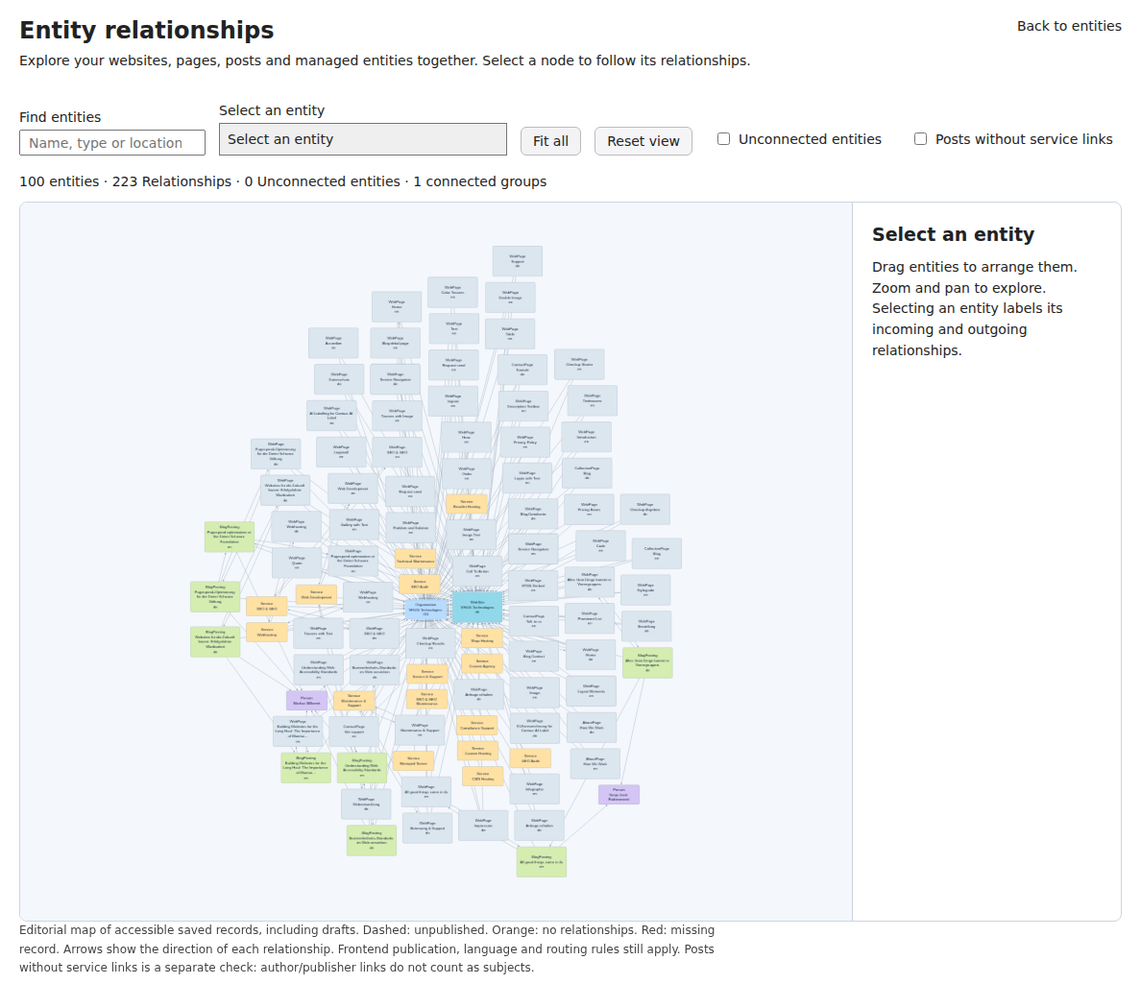
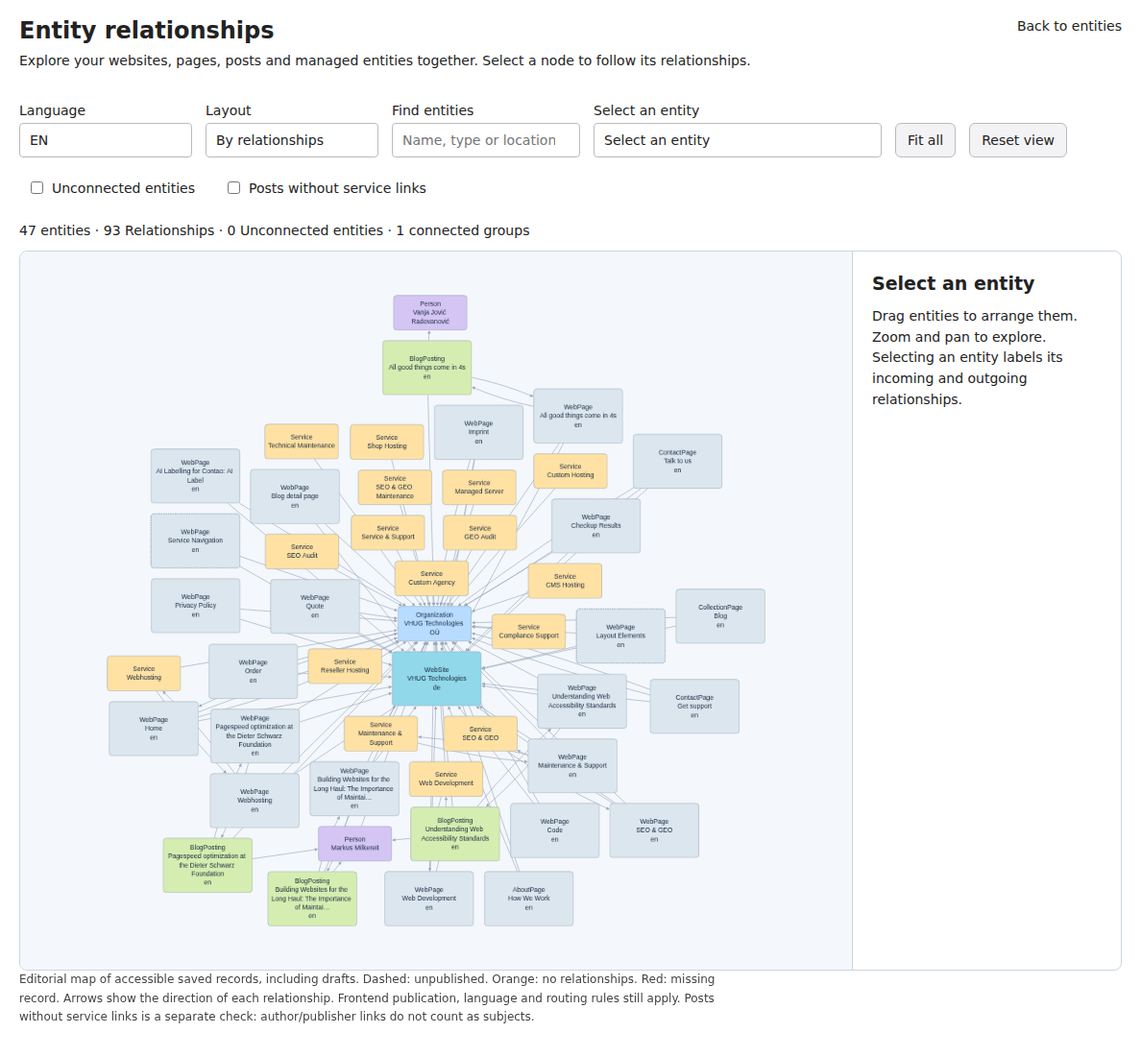
Declutter graph by indexing, language and type grouping

diff --git a/public/relationship-map.js b/public/relationship-map.js
@@ -9,8 +9,32 @@
     const events=new AbortController();
     const listen=(element,type,callback)=>element?.addEventListener(type,callback,{signal:events.signal});
     const colors = {Organization:'#b7dcff',LocalBusiness:'#a9e1d2',Person:'#d4c5f4',Service:'#ffe1a3',Product:'#ffcbb5',Event:'#ffc8e1',Missing:'#ffaaaa',WebSite:'#91d8ea',WebPage:'#dbe6ef',AboutPage:'#dbe6ef',ContactPage:'#dbe6ef',CollectionPage:'#dbe6ef',ProfilePage:'#dbe6ef',ItemPage:'#dbe6ef',BlogPosting:'#d5edb0',Article:'#d5edb0',NewsArticle:'#d5edb0',JobPosting:'#f2d0aa'};
-    elements.nodes.forEach(n => { n.data.label = `${n.data.type}\n${n.data.name.length>65?n.data.name.slice(0,62)+'…':n.data.name}${n.data.detail ? '\n'+n.data.detail : ''}`; n.data.color=colors[n.data.type] || '#cbd5e1'; });
-    const cy = window.cytoscape({container:q('[data-sg-canvas]'),elements, minZoom:.12,maxZoom:2.5,wheelSensitivity:.25,
+    const languageControl=q('[data-sg-language]');
+    const languages=[...new Set(elements.nodes.flatMap(n=>[n.data.language,...(n.data.languages||[])]).filter(Boolean))].sort();
+    let currentLanguage='*';
+    if(languageControl){
+      languageControl.options.length=1;
+      languages.forEach(code=>{const option=document.createElement('option');option.value=code;option.textContent=code.toUpperCase();languageControl.append(option);});
+      let saved;try{saved=sessionStorage.getItem('schema-manager-graph-language');}catch{}
+      const backendLanguage=document.documentElement.lang;
+      currentLanguage=saved==='*'||languages.includes(saved)?saved:languages.find(code=>code===backendLanguage||code.split('-')[0]===backendLanguage.split('-')[0])||languages[0]||'*';
+      languageControl.value=currentLanguage;
+    }
+    function visibleElements(){
+      let nodes=elements.nodes.filter(n=>currentLanguage==='*'||(!n.data.language&&(!(n.data.languages||[]).length||n.data.languages.includes(currentLanguage)))||n.data.language===currentLanguage).map(n=>{
+        const data={...n.data};
+        data.homes=(data.homes||[]).filter(h=>currentLanguage==='*'||h.language===currentLanguage);
+        if(currentLanguage!=='*'&&['Service','Product','Event'].includes(data.type))data.name=data.homes.find(h=>h.published&&h.name)?.name||data.name;
+        data.label=`${data.type}\n${data.name.length>65?data.name.slice(0,62)+'…':data.name}${data.detail?'\n'+data.detail:''}`;data.color=colors[data.type]||'#cbd5e1';
+        return {data};
+      });
+      const ids=new Set(nodes.map(n=>n.data.id));
+      const edges=elements.edges.filter(e=>ids.has(e.data.source)&&ids.has(e.data.target));
+      const linked=new Set(edges.flatMap(e=>[e.data.source,e.data.target]));
+      nodes=nodes.filter(n=>(n.data.kind!=='coreAuthor'&&!n.data.missing)||linked.has(n.data.id));
+      return {nodes,edges};
+    }
+    const cy = window.cytoscape({container:q('[data-sg-canvas]'),elements:visibleElements(), minZoom:.12,maxZoom:2.5,wheelSensitivity:.25,
       style:[{selector:'node',style:{label:'data(label)','background-color':'data(color)',shape:'round-rectangle',width:190,height:90,'text-wrap':'wrap','text-max-width':174,'font-size':17,'line-height':1.35,color:'#14253b','text-valign':'center','border-width':1,'border-color':'#8597aa'}},
         {selector:'node[type = "LocalBusiness"]',style:{height:140}},
         {selector:'node[kind = "news"], node[kind = "page"]',style:{width:230,height:140,'text-max-width':212}},
@@ -21,7 +45,24 @@
         {selector:'.dim',style:{opacity:.13}},
         {selector:'.focused',style:{'border-width':3,'border-color':'#155f9b'}},
         {selector:'edge.focused',style:{label:'data(label)','font-size':10,'text-background-color':'#fff','text-background-opacity':.95,'text-background-padding':3,'line-color':'#155f9b','target-arrow-color':'#155f9b',width:2.5}}],
-      layout:{name:'fcose',quality:'proof',animate:false,nodeDimensionsIncludeLabels:true,packComponents:false,nodeRepulsion:()=>100000,idealEdgeLength:()=>150,tilingPaddingVertical:40,tilingPaddingHorizontal:40,padding:35}});
+      layout:{name:'preset'}});
+    root.sgInstance=cy;
+    const select=q('[data-sg-select]');
+    function arrange(){
+      cy.elements().removeClass('focused dim');
+      if(q('[data-sg-layout]')?.value==='type'){
+        const order=['WebSite','Organization','LocalBusiness','Person','Service','Product','Event','BlogPosting','Article','NewsArticle','JobPosting','WebPage','AboutPage','ContactPage','CollectionPage','ProfilePage','ItemPage','Missing'];
+        const groups=[...new Set(cy.nodes().map(n=>n.data('type')))].sort((a,b)=>order.indexOf(a)-order.indexOf(b));
+        let x=0,y=0,rowHeight=0;
+        groups.forEach((type,index)=>{
+          const group=cy.nodes().filter(n=>n.data('type')===type).sort((a,b)=>a.data('name').localeCompare(b.data('name')));
+          group.layout({name:'grid',fit:false,condense:true,avoidOverlap:true,avoidOverlapPadding:32,nodeDimensionsIncludeLabels:true,cols:Math.ceil(Math.sqrt(group.length)),boundingBox:{x1:0,y1:0,w:1,h:1}}).run();
+          const bounds=group.boundingBox();
+          group.shift({x:x-bounds.x1,y:y-bounds.y1});rowHeight=Math.max(rowHeight,bounds.h);
+          if(index%2===0)x+=bounds.w+160;else{x=0;y+=rowHeight+160;rowHeight=0;}
+        });
+      }else{
+        cy.layout({name:'fcose',quality:'proof',animate:false,nodeDimensionsIncludeLabels:true,packComponents:false,nodeRepulsion:()=>100000,idealEdgeLength:()=>150,tilingPaddingVertical:40,tilingPaddingHorizontal:40,padding:35}).run();
     // Dense publisher/site hubs can pull rectangular cards into each other.
     // Resolve overlaps after the force layout while preserving its neighborhoods.
     const boxes=cy.nodes().map(n=>{const b=n.boundingBox({includeLabels:true});return {node:n,x:n.position('x'),y:n.position('y'),w:b.w,h:b.h};});
@@ -38,13 +79,19 @@
       if(!moved)break;
     }
     cy.batch(()=>boxes.forEach(b=>b.node.position({x:b.x,y:b.y})));
-    cy.fit(undefined,35);
-    root.sgInstance=cy;
-    const real=cy.nodes().filter(n=>!n.data('missing')), isolated=real.filter(n=>n.degree()===0);
-    isolated.addClass('isolated');
-    q('[data-sg-summary]').textContent=`${real.length} ${l.entities} · ${cy.edges().length} ${l.relations} · ${isolated.length} ${l.isolated} · ${cy.elements().components().length} ${l.groups}`;
-    const select=q('[data-sg-select]');select.options.length=1;
-    cy.nodes().forEach(n=> {const opt=document.createElement('option');opt.value=n.id();opt.textContent=`${n.data('type')} · ${n.data('name')}${n.data('detail')?' · '+n.data('detail'):''}`;select.append(opt);});
+        // Use the library's strict no-overlap grid if relaxation still leaves collisions.
+        const overlapping=boxes.some((a,i)=>boxes.slice(i+1).some(b=>Math.abs(a.x-b.x)<(a.w+b.w)/2+2&&Math.abs(a.y-b.y)<(a.h+b.h)/2+2));
+        if(overlapping)cy.layout({name:'grid',avoidOverlap:true,avoidOverlapPadding:32,nodeDimensionsIncludeLabels:true,condense:true,fit:false}).run();
+      }
+      cy.fit(undefined,35);
+    }
+    function updateOverview(){
+      const real=cy.nodes().filter(n=>!n.data('missing')), isolated=real.filter(n=>n.degree()===0);
+      cy.nodes().removeClass('isolated');isolated.addClass('isolated');
+      q('[data-sg-summary]').textContent=`${real.length} ${l.entities} · ${cy.edges().length} ${l.relations} · ${isolated.length} ${l.isolated} · ${cy.elements().components().length} ${l.groups}`;
+      select.options.length=1;
+      cy.nodes().forEach(n=>{const opt=document.createElement('option');opt.value=n.id();opt.textContent=`${n.data('type')} · ${n.data('name')}${n.data('detail')?' · '+n.data('detail'):''}`;select.append(opt);});
+    }
     const add=(parent,tag,text,cls)=>{const el=document.createElement(tag);el.textContent=text;if(cls)el.className=cls;parent.append(el);return el;};
     const details=q('[data-sg-details]');
     function focus(n){
@@ -73,6 +120,14 @@
     listen(q('[data-sg-search]'),'input',filter);listen(q('[data-sg-isolated]'),'change',filter);listen(q('[data-sg-topics]'),'change',filter);
     listen(q('[data-sg-fit]'),'click',()=>cy.fit(undefined,45));
     listen(q('[data-sg-reset]'),'click',()=>{q('[data-sg-search]').value='';q('[data-sg-isolated]').checked=false;if(q('[data-sg-topics]'))q('[data-sg-topics]').checked=false;select.value='';filter();details.replaceChildren();add(details,'h3',l.select);add(details,'p',l.help);});
+    function resetDetails(){details.replaceChildren();add(details,'h3',l.select);add(details,'p',l.help);}
+    listen(languageControl,'change',()=>{
+      currentLanguage=languageControl.value;
+      try{sessionStorage.setItem('schema-manager-graph-language',currentLanguage);}catch{}
+      cy.elements().remove();cy.add(visibleElements());updateOverview();arrange();resetDetails();filter();
+    });
+    listen(q('[data-sg-layout]'),'change',()=>{select.value='';arrange();resetDetails();filter();});
+    updateOverview();arrange();
     const observer=new ResizeObserver(()=>{if(!cy.destroyed())cy.resize();});observer.observe(q('[data-sg-canvas]'));root.sgCleanup=()=>{events.abort();observer.disconnect();cy.stop();cy.destroy();root.sgInstance=null;};
   });
   document.addEventListener('turbo:load',boot);

diff --git a/public/relationship-map.css b/public/relationship-map.css
@@ -1,3 +1,5 @@
 .sg-map{padding:20px;background:var(--content-bg,#fff);color:var(--text,#222)}.sg-heading{display:flex;justify-content:space-between;gap:20px}.sg-heading h2{font-size:24px;margin:0 0 8px}.sg-heading p,.sg-note{max-width:95ch;line-height:1.6}.sg-toolbar{display:flex;gap:14px;flex-wrap:wrap;align-items:end;margin:20px 0}.sg-toolbar label{display:grid;gap:6px}.sg-toolbar input[type=search],.sg-toolbar select{min-width:180px;max-width:300px;padding:8px}.sg-toolbar .sg-check{display:flex;align-items:center;padding:8px}.sg-workspace{display:grid;grid-template-columns:minmax(0,1fr) 280px;border:1px solid #cbd5e1;border-radius:8px;overflow:hidden}.sg-canvas{height:68vh;min-height:480px;background:#f4f7fb}.sg-details{padding:20px;border-left:1px solid #cbd5e1;overflow-wrap:anywhere;max-height:68vh;overflow:auto}.sg-details h3{font-size:19px;line-height:1.4}.sg-details ul{padding-left:18px;line-height:1.7}.sg-details button{border:0;background:transparent;color:#126aaf;text-align:left;text-decoration:underline;cursor:pointer;padding:3px;font:inherit}.sg-status{font-weight:bold}.sg-note{font-size:12px;opacity:.85}.sg-edit{display:inline-block;margin:12px 0}.sg-details code{font-size:11px}.sg-map button:focus-visible,.sg-map a:focus-visible,.sg-map select:focus-visible{outline:3px solid #2682b9;outline-offset:3px}@media(max-width:900px){.sg-workspace{grid-template-columns:1fr}.sg-details{border-left:0;border-top:1px solid #cbd5e1;max-height:350px}.sg-canvas{min-height:400px;height:55vh}}
 .sg-details p{line-height:1.55;margin:10px 0}.sg-details h4{margin-top:20px}
 .sg-canvas{min-width:0}.sg-workspace{min-width:0}@media(max-width:900px){.sg-workspace{grid-template-columns:minmax(0,1fr)}}
+
+.sg-toolbar input[type=search],.sg-toolbar select{box-sizing:border-box;height:36px;min-height:36px;line-height:20px;padding:7px 10px;border:1px solid var(--form-border,#bbb);border-radius:4px;background:var(--form-bg,#fff);color:inherit;font:inherit;margin:0}.sg-toolbar label{align-content:start}.sg-toolbar .tl_submit{min-height:36px}

diff --git a/tests/browser-relationship-map.py b/tests/browser-relationship-map.py
@@ -7,7 +7,7 @@ nodes=[{'data':dict(id='entity-'+str(i),record=i,name=name,type=kind,detail=deta
  (1,'Example company','Organization','',True,False),(2,'Example company','LocalBusiness','Main Street 3, 70173 Stuttgart',True,False),
  (3,'Unconnected draft','Person','',False,False),(4,'#4','Missing','',False,True),(5,'</script><script>window.attacked=true</script>','Service','',True,False)]]
 edges=[{'data':dict(id='edge-'+str(i),source=source,target=target,label=label)} for i,source,target,label in [(1,'entity-2','entity-1','parentOrganization'),(2,'entity-1','entity-2','location'),(3,'entity-1','entity-4','memberOf')]]
-html='''<div data-schema-graph><input data-sg-search><select data-sg-select><option value="">Select</option></select><input type="checkbox" data-sg-isolated><input type="checkbox" data-sg-topics><button data-sg-fit>Fit</button><button data-sg-reset>Reset</button><p data-sg-summary></p><div class="sg-workspace"><div data-sg-canvas class="sg-canvas"></div><aside data-sg-details class="sg-details"></aside></div><script type="application/json" data-sg-data></script></div>'''
+html='''<div data-schema-graph><div class="sg-toolbar"><select data-sg-language><option value="*">All</option></select><select data-sg-layout><option value="relationships">Relationships</option><option value="type">Type</option></select><input type="search" data-sg-search><select data-sg-select><option value="">Select</option></select><input type="checkbox" data-sg-isolated><input type="checkbox" data-sg-topics><button data-sg-fit>Fit</button><button data-sg-reset>Reset</button></div><p data-sg-summary></p><div class="sg-workspace"><div data-sg-canvas class="sg-canvas"></div><aside data-sg-details class="sg-details"></aside></div><script type="application/json" data-sg-data></script></div>'''
 with sync_playwright() as p:
  browser=p.chromium.launch()
  page=browser.new_page(viewport={'width':1440,'height':1000})
@@ -46,6 +46,7 @@ with sync_playwright() as p:
  page.evaluate("document.dispatchEvent(new Event('turbo:before-cache'))")
  page.locator('[data-sg-data]').evaluate('(el,payload)=>el.textContent=JSON.stringify(payload)',{'elements':content,'labels':labels})
  page.evaluate("document.dispatchEvent(new Event('turbo:load'))")
+ page.locator('[data-sg-language]').select_option('*')
  page.locator('[data-sg-select]').select_option('news-31')
  assert 'do=news' in page.locator('[data-sg-details] a').get_attribute('href')
  expect(page.locator('[data-sg-details]')).to_contain_text('author')
@@ -56,6 +57,22 @@ with sync_playwright() as p:
  assert page.evaluate(cy+".nodes('.focused').length")==3
  page.locator('[data-sg-reset]').click()
  assert not page.locator('[data-sg-topics]').is_checked()
+ assert not errors,errors
+
+ page.locator('[data-sg-language]').select_option('en')
+ assert page.evaluate(cy+".getElementById('news-31').length")==0
+ assert page.evaluate(cy+".getElementById('news-32').length")==1
+ assert page.evaluate(cy+".getElementById('entity-3').data('name')")=='Service'
+ page.locator('[data-sg-language]').select_option('de')
+ assert page.evaluate(cy+".getElementById('entity-3').data('name')")=='Leistung'
+ assert page.locator('[data-sg-select] option[value="news-32"]').count()==0
+ overlap="""()=>{const nodes=document.querySelector('[data-schema-graph]').sgInstance.nodes();for(let i=0;i<nodes.length;i++)for(let j=i+1;j<nodes.length;j++){const a=nodes[i].boundingBox(),b=nodes[j].boundingBox();if(a.x1<b.x2&&a.x2>b.x1&&a.y1<b.y2&&a.y2>b.y1)return true;}return false;}"""
+ for lang in ['*','en','de']:
+  page.locator('[data-sg-language]').select_option(lang)
+  for layout in ['type','relationships']:
+   page.locator('[data-sg-layout]').select_option(layout)
+   assert not page.evaluate(overlap),(lang,layout)
+ assert page.locator('[data-sg-search]').bounding_box()['height']==page.locator('[data-sg-select]').bounding_box()['height']
  assert not errors,errors
  browser.close()
 print('PASS: isolated, draft and missing nodes, office labels, selection, search, hostile labels, mobile width and empty graph/Turbo reinitialization.')

diff --git a/src/Schema/ContentRelationshipMap.php b/src/Schema/ContentRelationshipMap.php
@@ -7,6 +7,15 @@ final class ContentRelationshipMap
 {
     public function extend(array $map, array $pages, array $news, array $translations): array
     {
+        $excluded = [];
+        foreach ($pages as $page) {
+            if ($page['type']==='regular' && preg_match('/(?:^|[,\s])noindex(?:$|[,\s])/i', $page['robots'] ?? '')) { $excluded[(int)$page['id']]=true; }
+        }
+        $pages=array_values(array_filter($pages,static fn($page)=>!isset($excluded[(int)$page['id']])));
+        $news=array_values(array_filter($news,static fn($post)=>!isset($excluded[(int)$post['_reader']])));
+        $translations=array_values(array_filter($translations,static fn($home)=>!isset($excluded[(int)$home['page']])));
+        foreach ($map['nodes'] as &$node) { $node['data']['homes']=array_values(array_filter($node['data']['homes'],static fn($home)=>!isset($excluded[(int)$home['page']]))); }
+        unset($node);
         $nodes = []; foreach ($map['nodes'] as $node) { $nodes[$node['data']['id']] = $node; }
         $edges = [];
         foreach ($map['edges'] as $edge) { $d=$edge['data']; $edges[$d['source'].'|'.$d['label'].'|'.$d['target']]=$edge; }
@@ -32,6 +41,7 @@ final class ContentRelationshipMap
             $site = $byPage[$siteId];
             $add('site-'.$siteId,'WebSite',($site['schemaSiteName'] ?? '') ?: $site['title'],$siteId,'page',[
                 'identity'=>$site['schemaWebsiteId'] ?? '', 'published'=>(bool)$site['published'], 'detail'=>$site['language'] ?? '',
+                'languages'=>array_values(array_unique(array_filter(array_map(static fn($page)=>($siteFor[$page['id']] ?? null)===$siteId ? ($page['language'] ?? '') : '',$pages)))),
                 'warnings'=>empty($site['schemaWebsiteId'])?['missingIdentity']:[]]);
             $link('site-'.$siteId,'entity-'.($site['schemaPublisher'] ?? 0),'publisher');
         }
@@ -105,6 +115,8 @@ final class ContentRelationshipMap
         // Topic diagnostics intentionally ignore structural website/publisher/author relationships.
         foreach ($nodes as &$node) {
             $d=&$node['data']; $d['kind'] ??= 'entity';
+            $d['language']=in_array($d['kind'],['page','news'],true) && $d['type']!=='WebSite' ? $d['detail'] : '';
+            $d['languages'] ??= [];
             if ($d['kind']==='news' && in_array($d['type'],['BlogPosting','Article','NewsArticle'],true) && !in_array('suppressed',$d['warnings'],true)) {
                 $d['needsService']=true;
                 foreach ($edges as $edge) {

diff --git a/tests/content-relationship-map.php b/tests/content-relationship-map.php
@@ -17,7 +17,7 @@ $posts=[['id'=>31,'url'=>'https://example.org/de/post-a','schemaAbout'=>[3]]+$ba
  ['id'=>33,'_author'=>0,'url'=>'https://example.org/de/post-b']+$base,
  ['id'=>34,'_mode'=>'suppress']+$base,
  ['id'=>35,'_reader'=>999,'url'=>'https://example.org/restricted']+$base];
-$translations=[['pid'=>3,'language'=>'de','page'=>11,'published'=>'1','isMainEntity'=>'1']];
+$translations=[['pid'=>3,'language'=>'de','page'=>11,'published'=>'1','isMainEntity'=>'1','name'=>'Leistung'],['pid'=>3,'language'=>'en','page'=>21,'published'=>'1','isMainEntity'=>'1','name'=>'Service']];
 $map=(new ContentRelationshipMap())->extend((new RelationshipMap())->build($entities,$translations),$pages,$posts,$translations);
 $nodes=array_column(array_column($map['nodes'],'data'),null,'id');$edges=array_column($map['edges'],'data');
 $has=static fn($a,$b,$p)=>count(array_filter($edges,fn($e)=>$e['source']===$a&&$e['target']===$b&&$e['label']===$p))===1;
@@ -35,4 +35,12 @@ $check(!isset($nodes['reader-34'])&&in_array('suppressed',$nodes['news-34']['war
 $check(count(array_unique(array_column($edges,'id')))===count($edges),'Unique relationship identifiers');
 $empty=(new ContentRelationshipMap())->extend((new RelationshipMap())->build([],[]),[],[],[]);
 $check($empty===['nodes'=>[],'edges'=>[]],'Empty and core-only content source');
+$noindexPages=$pages;
+foreach ($noindexPages as &$p) { if ($p['id']===12) {$p['robots']='noindex,follow';} if ($p['id']===11) {$p['robots']='index,nofollow';} } unset($p);
+$filtered=(new ContentRelationshipMap())->extend((new RelationshipMap())->build($entities,$translations),$noindexPages,$posts,$translations);
+$filteredNodes=array_column(array_column($filtered['nodes'],'data'),null,'id');
+$check(!isset($filteredNodes['page-12'],$filteredNodes['news-31'],$filteredNodes['reader-31'],$filteredNodes['news-33']),'Noindex reader and its posts excluded');
+$check(isset($filteredNodes['page-11'],$filteredNodes['news-32'],$filteredNodes['entity-3']),'Nofollow and shared entities remain; no blanket language exclusion');
+$check($nodes['news-32']['language']==='en' && $nodes['page-11']['language']==='de' && $nodes['entity-3']['language']==='','Content has language, business entities remain shared');
+$check($nodes['site-10']['languages']===['de','en'],'Shared website spans both languages');
 echo "PASS: website/page/blog graph, translated roots, author fallback, topics, per-post reader identity and permission-filtered references.\n";

diff --git a/contao/languages/de/schema_graph.php b/contao/languages/de/schema_graph.php
@@ -45,3 +45,15 @@ $GLOBALS['TL_LANG']['schema_graph']['suppressed'] = 'Die Archiveinstellung unter
 $GLOBALS['TL_LANG']['schema_graph']['expired'] = 'Die Bewerbungsfrist ist abgelaufen; die JobPosting-Ausgabe ist unterdrückt.';
 
 $GLOBALS['TL_LANG']['schema_graph']['unmappedAuthor'] = 'Core-Autor ohne gemeinsame Person-Identität. Verknüpfen Sie den Backend-Autor oder wählen Sie eine Person in der Nachricht.';
+
+$GLOBALS['TL_LANG']['schema_graph']['language'] = 'Sprache';
+
+$GLOBALS['TL_LANG']['schema_graph']['allLanguages'] = 'Alle Sprachen';
+
+$GLOBALS['TL_LANG']['schema_graph']['layout'] = 'Anordnung';
+
+$GLOBALS['TL_LANG']['schema_graph']['byRelationships'] = 'Nach Beziehungen';
+
+$GLOBALS['TL_LANG']['schema_graph']['byType'] = 'Nach Typ gruppiert';
+
+$GLOBALS['TL_LANG']['schema_graph']['scope'] = 'Noindex-Seiten sind ausgeblendet. Zähler und Beziehungen beziehen sich auf die gewählte Sprache.';

diff --git a/contao/languages/en/schema_graph.php b/contao/languages/en/schema_graph.php
@@ -45,3 +45,15 @@ $GLOBALS['TL_LANG']['schema_graph']['suppressed'] = 'Schema output is suppressed
 $GLOBALS['TL_LANG']['schema_graph']['expired'] = 'The job deadline has passed; JobPosting output is suppressed.';
 
 $GLOBALS['TL_LANG']['schema_graph']['unmappedAuthor'] = 'Core author without a shared Person identity. Link the backend author or select a Person in the News item to connect this author to managed people.';
+
+$GLOBALS['TL_LANG']['schema_graph']['language'] = 'Language';
+
+$GLOBALS['TL_LANG']['schema_graph']['allLanguages'] = 'All languages';
+
+$GLOBALS['TL_LANG']['schema_graph']['layout'] = 'Layout';
+
+$GLOBALS['TL_LANG']['schema_graph']['byRelationships'] = 'By relationships';
+
+$GLOBALS['TL_LANG']['schema_graph']['byType'] = 'Grouped by type';
+
+$GLOBALS['TL_LANG']['schema_graph']['scope'] = 'Noindex pages are excluded. Counts and relationships reflect the selected language.';

diff --git a/docs/relationship-map.md b/docs/relationship-map.md
@@ -40,6 +40,16 @@ Both are multi-select pickers for existing entities. They add stable @id referen
 
 The screenshots use an unpublished documentation example; the example is removed after verification.
 
+## Language, visibility and layout
+
+Pages configured with `noindex` in Contao's robots field are excluded from this visualization, along with their reader-page instances and posts routed through those noindex readers. Other pages are evaluated individually; an indexed child is not hidden merely because its parent is noindex. Shared business entities remain visible even if their representative page is excluded. This filter does not change publication, robots settings or frontend JSON-LD.
+
+The **Language** selector defaults to the backend language where available (otherwise the first available language), and remembers your selection for this browser session. **All languages** is also available. Pages/posts from other languages and their edges are removed from the current view; shared business entities and shared websites remain. Services, products and events use their published translated name where available. Counts, orphan checks, the entity selector and details reflect the current view. Records whose language cannot be resolved remain visible rather than being silently assigned a language.
+
+**By relationships** uses the force layout plus card separation; a strict library grid with `avoidOverlap` is the fallback if relaxation cannot resolve all collisions. **Grouped by type** places each type in its own spaced grid block. Both calculate spacing using card/label dimensions and rearrange after language changes. These are automatic positioning rules; editors can still drag cards manually.
+
+![English graph grouped by schema type](images/relationships-grouped.png)
+
 ## Backend use
 
 Open **Content → Structured data → Entity relationships**. Drag nodes, zoom and pan; select one to label its relationships and see details. Selecting a node zooms into its immediate relationships. Labels stay on selected edges; no all-label toggle was added. The entity selector and relationship buttons provide a keyboard alternative to the canvas. Search highlights matches without deleting other records. **Unconnected entities** highlights nodes with no entity edges. **Fit all** restores the full framing; **Reset view** clears selection and filters.

diff --git a/README.md b/README.md
@@ -20,7 +20,7 @@ This branch (`codex/feature-relationship-graph`) adds **Structured data → Enti
 
 ![Interactive relationship map of the pilot entities](docs/images/relationships.png)
 
-The map shows managed entities, websites, pages and News-generated posts together, including drafts and entities without connections. Author, publisher, page membership and article subject links are visible. **Posts without service links** highlights articles without a direct `about`/`mentions` connection to a Service. Select a node (or use the keyboard-accessible entity selector) to see incoming/outgoing relationships, localized home assignments and an edit link. Search by name, type or location; use **Unconnected entities** to highlight records worth reviewing. LocalBusiness labels include street and postal locality to distinguish branches with the same company name.
+The map shows managed entities, websites, pages and News-generated posts together, including drafts and entities without connections. `noindex` pages are excluded. Choose one language (shared entities stay visible), or all languages, and switch between relationship layout and grouping by type. Author, publisher, page membership and article subject links are visible. **Posts without service links** highlights articles without a direct `about`/`mentions` connection to a Service. Select a node (or use the keyboard-accessible entity selector) to see incoming/outgoing relationships, localized home assignments and an edit link. Search by name, type or location; use **Unconnected entities** to highlight records worth reviewing. LocalBusiness labels include street and postal locality to distinguish branches with the same company name.
 
 News editors can select **Main subjects (about)** and **Mentioned entities (mentions)**; these also enrich the actual article JSON-LD. Apply the Contao database update for the two new optional fields.
 
